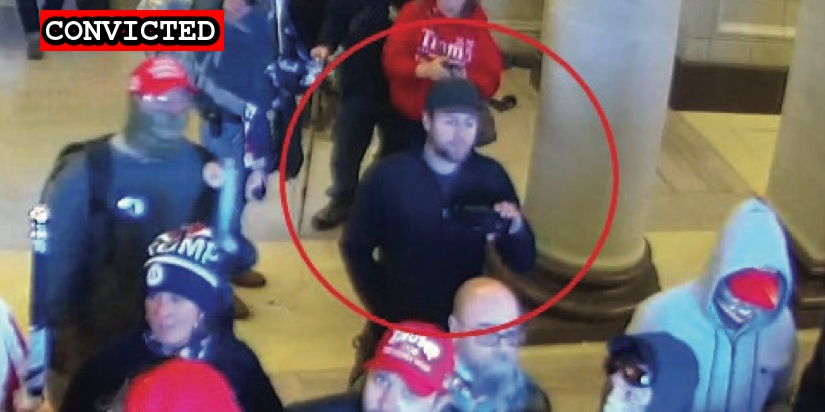
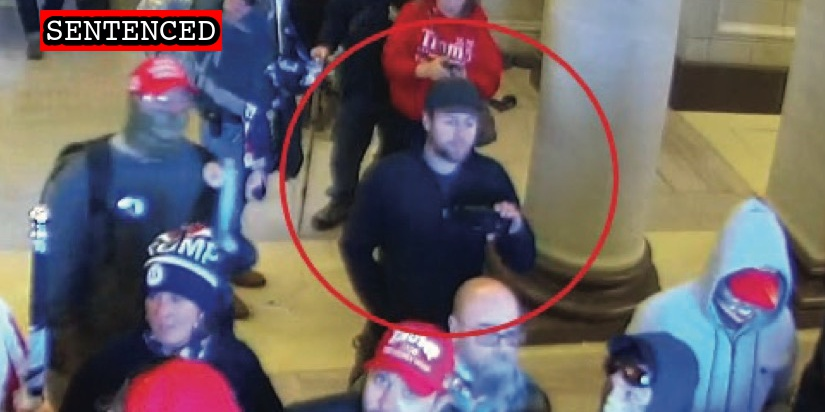
Sells conviction

Changed region(s): [[0.0303, 0.0291, 0.2727, 0.1165]]

diff --git a/docs/_suspects/tanner-sells.md b/docs/_suspects/tanner-sells.md
@@ -4,12 +4,12 @@ lastName: Sells
 hashtag: TannerSells
 aka:
 residence: Oklahoma
-status: Convicted
+status: Sentenced
 date: 2021-05-12
 charged: 2021-05-12
 indicted:
 convicted: 2021-09-27
-sentenced:
+sentenced: 2022-01-18
 dismissed:
 deceased:
 plea_hearing: 2021-09-27
@@ -35,7 +35,12 @@ caseNumber: 1:21-cr-549
 videos:
 charges:
 sentence:
+  - 90 days home detention
+  - 24 months probation
+  - $1,500 fine
+  - $500 restitution
 ---
+
 - [News Report](https://www.oklahoman.com/story/news/2021/05/17/fifth-oklahoman-charged-us-capitol-attack-jan-6/5137167001/)
 - [Statement of Facts](https://www.justice.gov/usao-dc/case-multi-defendant/file/1437041/download)
 - [Plea Agreement](https://www.justice.gov/usao-dc/case-multi-defendant/file/1437036/download)
